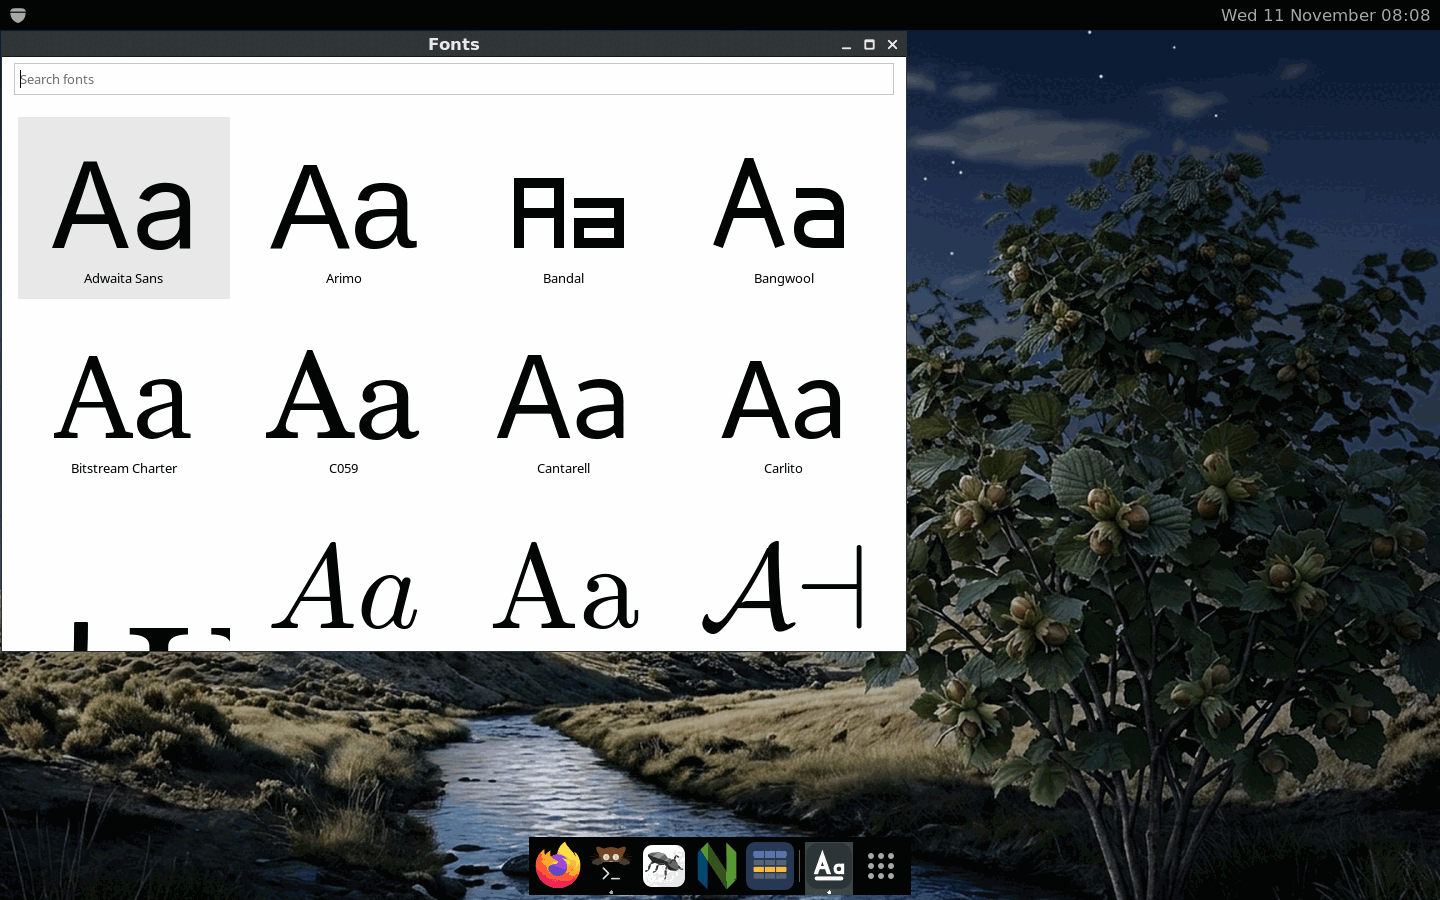
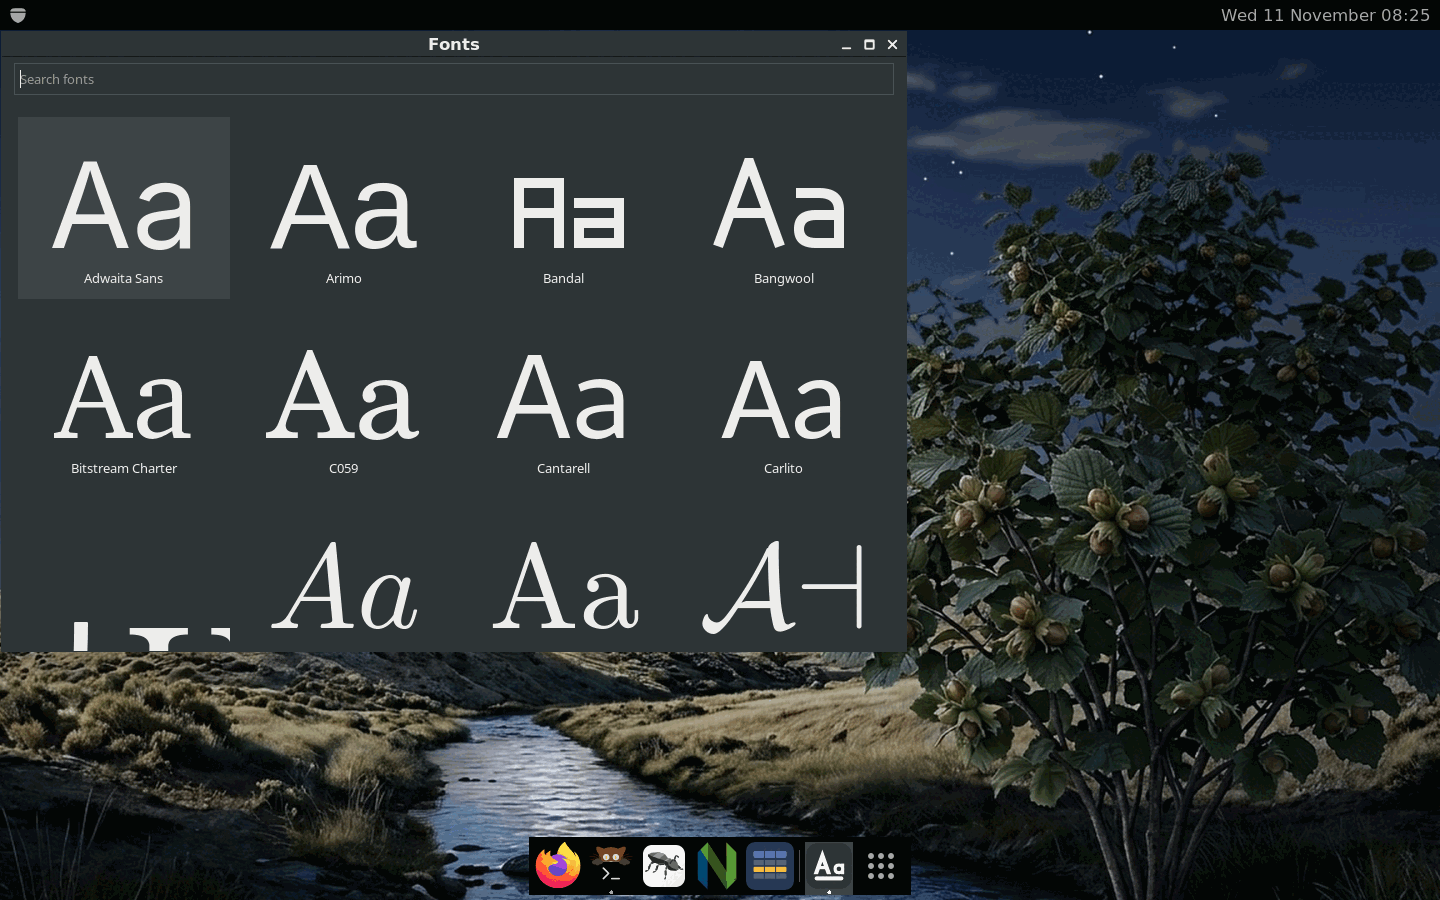
Docs: the programs and the lock screen follow the style; new screenshots of them

diff --git a/doc/features.md b/doc/features.md
@@ -100,7 +100,8 @@ comparison with other window managers is in the [comparison](comparison.md).
   `[theme] style` or in `tiny-settings`, and switchable while the shell runs
   (the actions `theme-dark`, `theme-light` and `theme-toggle`; no key or menu
   item is bound to them yet, see the key bindings in the plan). The theme
-  changes everything the shell draws, the title bars of the windows too. The
+  changes everything the shell draws, the title bars of the windows too, and
+  the small programs (settings, fonts, about, the lock screen) start in it. The
   panel and the dock each have a style of their own, `[panel] style` and
   `[dock] style`: `auto` follows the theme, `light` and `dark` keep that look in
   any theme (a dark panel and dock over a light desktop, for example).

diff --git a/doc/configuration.md b/doc/configuration.md
@@ -209,6 +209,12 @@ changes. The settings come from the configuration file:
 - `Xft/Antialias`, `Xft/Hinting`, `Xft/HintStyle` and `Xft/RGBA` from `[xft]`
   (what is not set is not published)
 
+`tiny-settings`, `tiny-fonts`, `tiny-about` and `tiny-lock` read `Net/ThemeName`
+from the manager of settings when they start and take the dark or the light
+colors from it (a name that ends with `-dark` is the dark one). Without a
+manager of settings they use `[theme] style`. A program that already runs
+keeps its colors until it is started again.
+
 A settings daemon that already runs (`gsd-xsettings`, `xsettingsd`) is left
 alone and tiny-shell publishes nothing; the same happens with `[theme] xsettings
 = no`. The cursor theme is not published yet.

diff --git a/doc/lock.md b/doc/lock.md
@@ -14,7 +14,8 @@ set and to forget.
   another program (`slock`, `i3lock`, `xsecurelock`), and then the key and the
   menu start that one.
 
-The lock puts a black window over all the monitors and takes the keyboard and
+The lock puts a window over all the monitors, black in the dark style and light
+in the light one (the style of the shell, see [Configuration](configuration.md#settings-for-gtk-and-qt-xsettings)) and takes the keyboard and
 the pointer. When a monitor is connected or the layout changes while it is
 locked (RandR), the window covers the new screen at once and the dialog moves to
 the middle of the primary monitor. The sizes follow `[theme] scale` and the font. It has three states:

diff --git a/doc/applications.md b/doc/applications.md
@@ -99,7 +99,7 @@ when it starts, so a change of the rest is seen after you log out and in again.
 
 `build/tiny-fonts` (made by `make`) shows the font families of the system, the
 list that `fc-list : family` prints, read from fontconfig. Every family is a
-cell with "Aa" in the family (black on white) and its name under it. Type at the
+cell with "Aa" in the family (in the colors of the style) and its name under it. Type at the
 top to search the families (Escape clears the search). Scroll with the wheel or
 the keys, click a family (or press Return) to see its specimen: the small
 letters, the capitals, the digits and the signs, then one sentence in 8, 12, 16,
